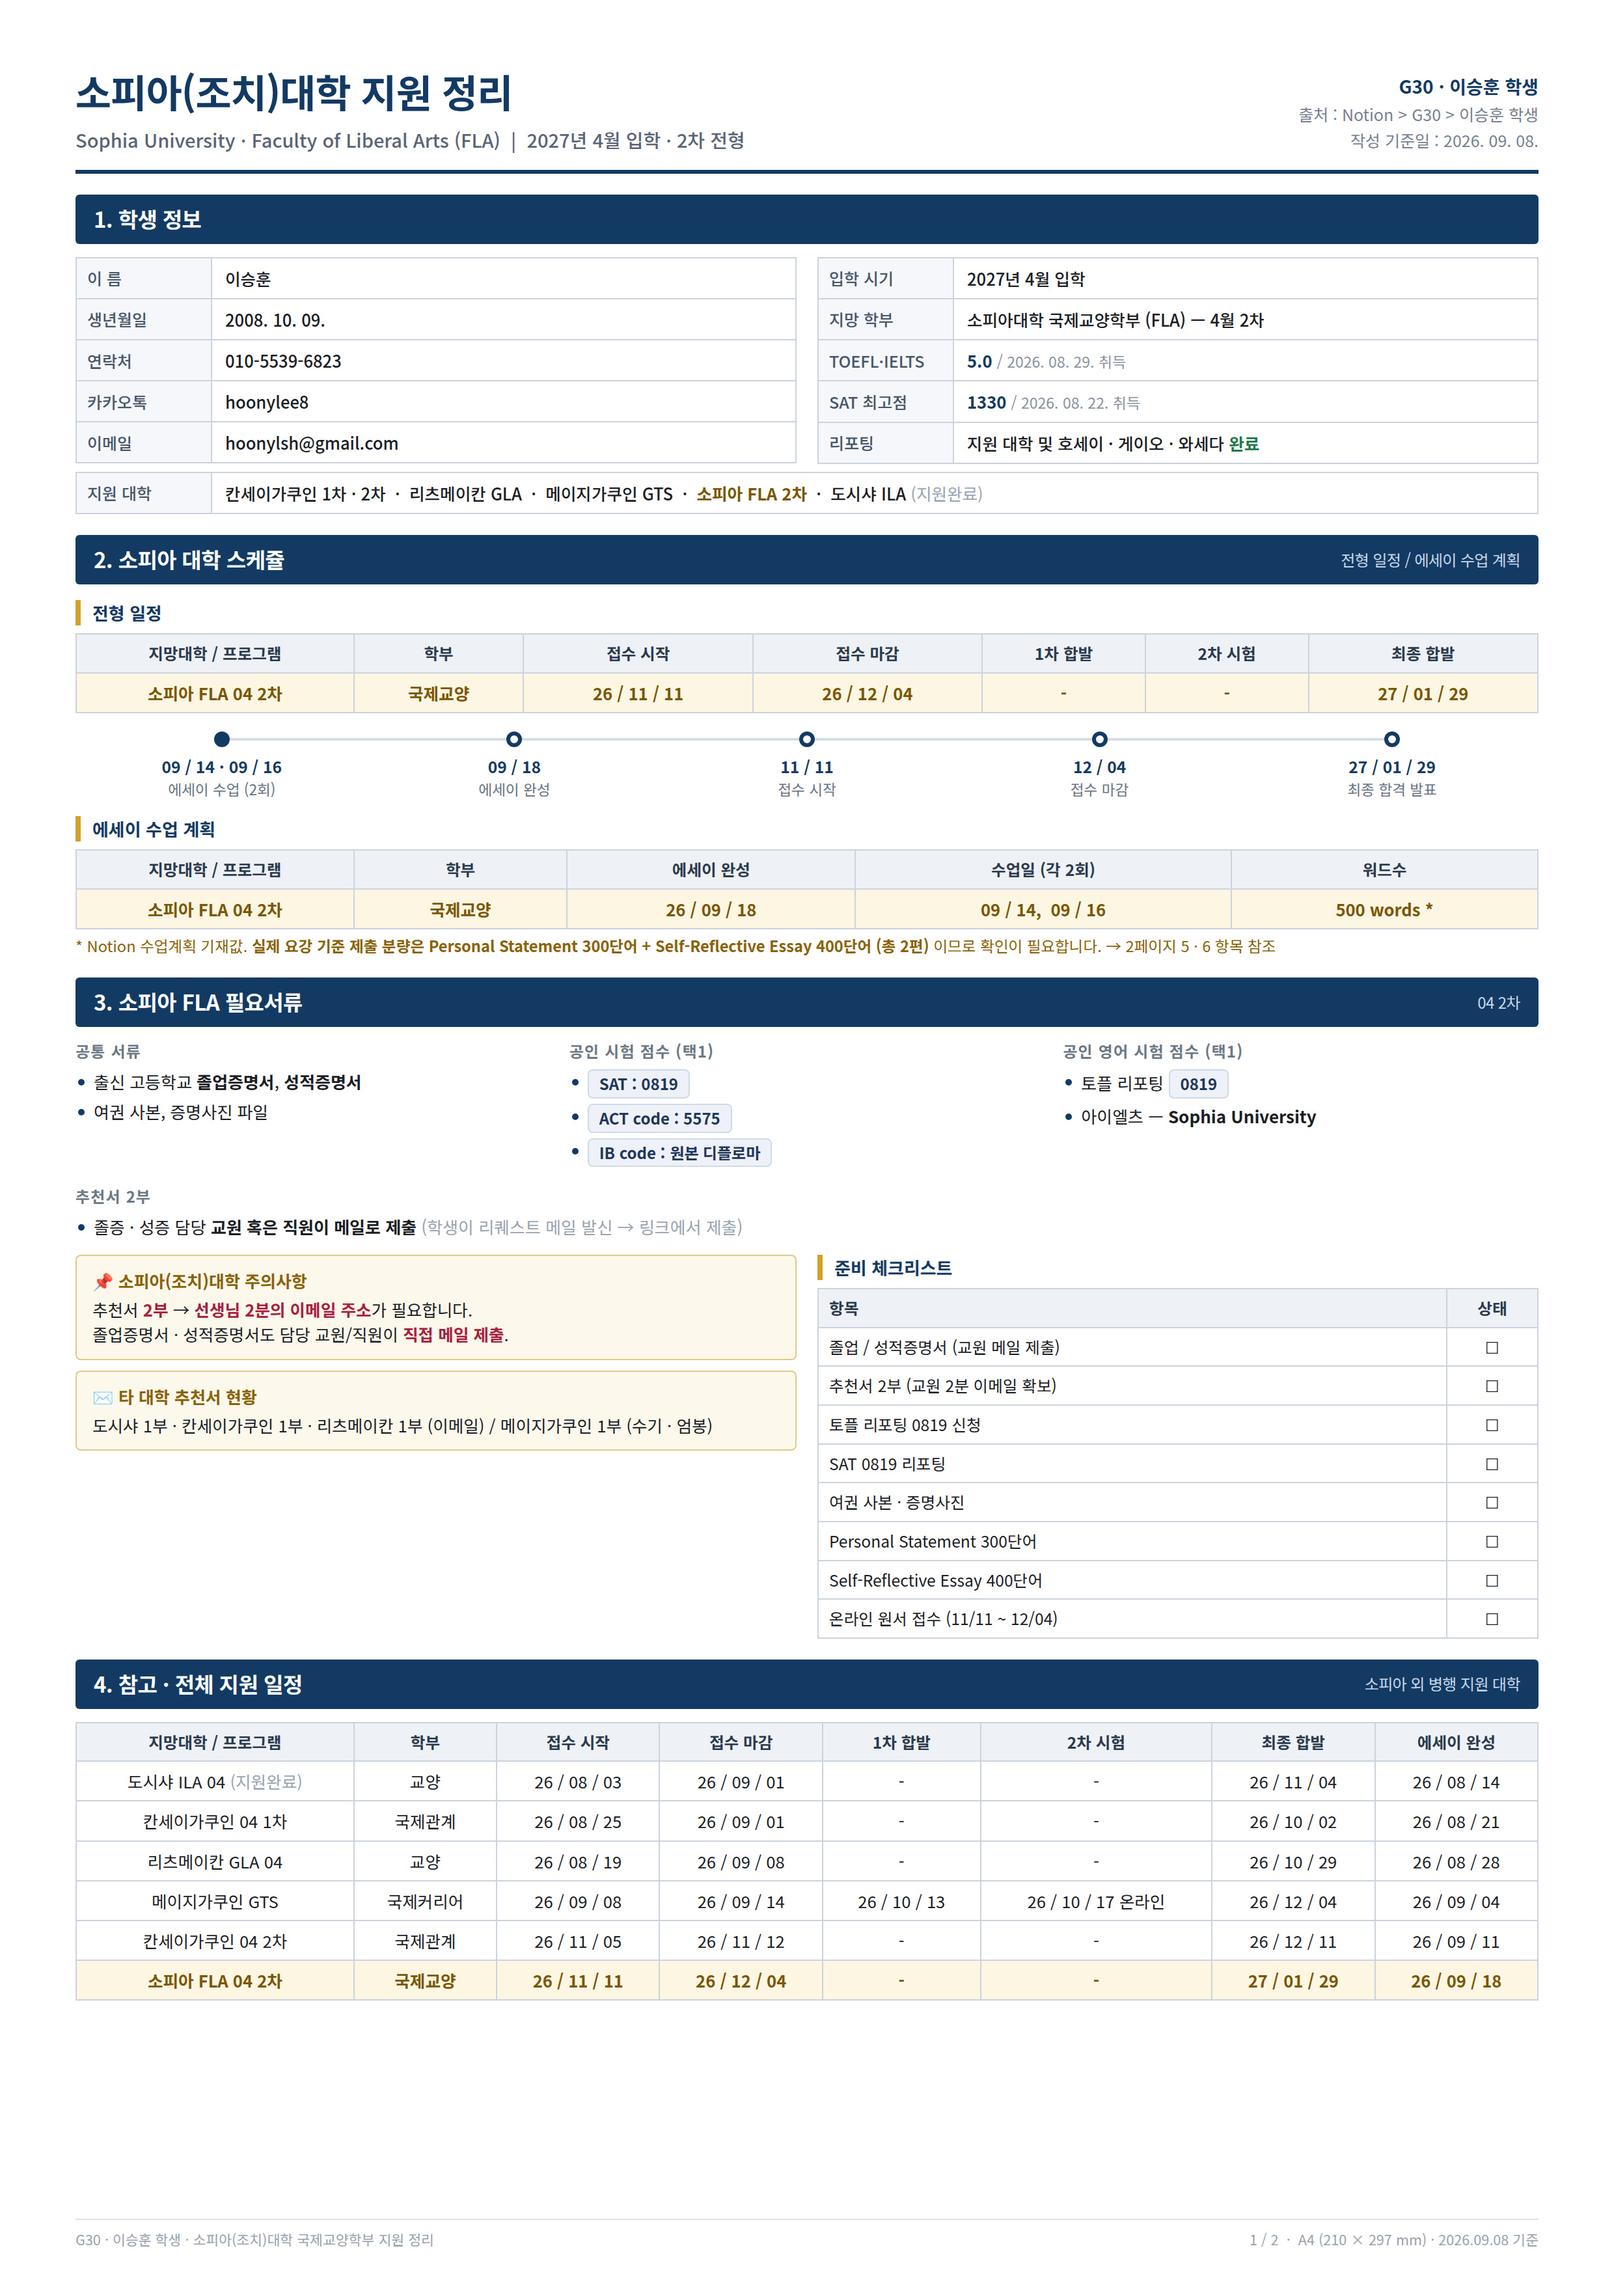
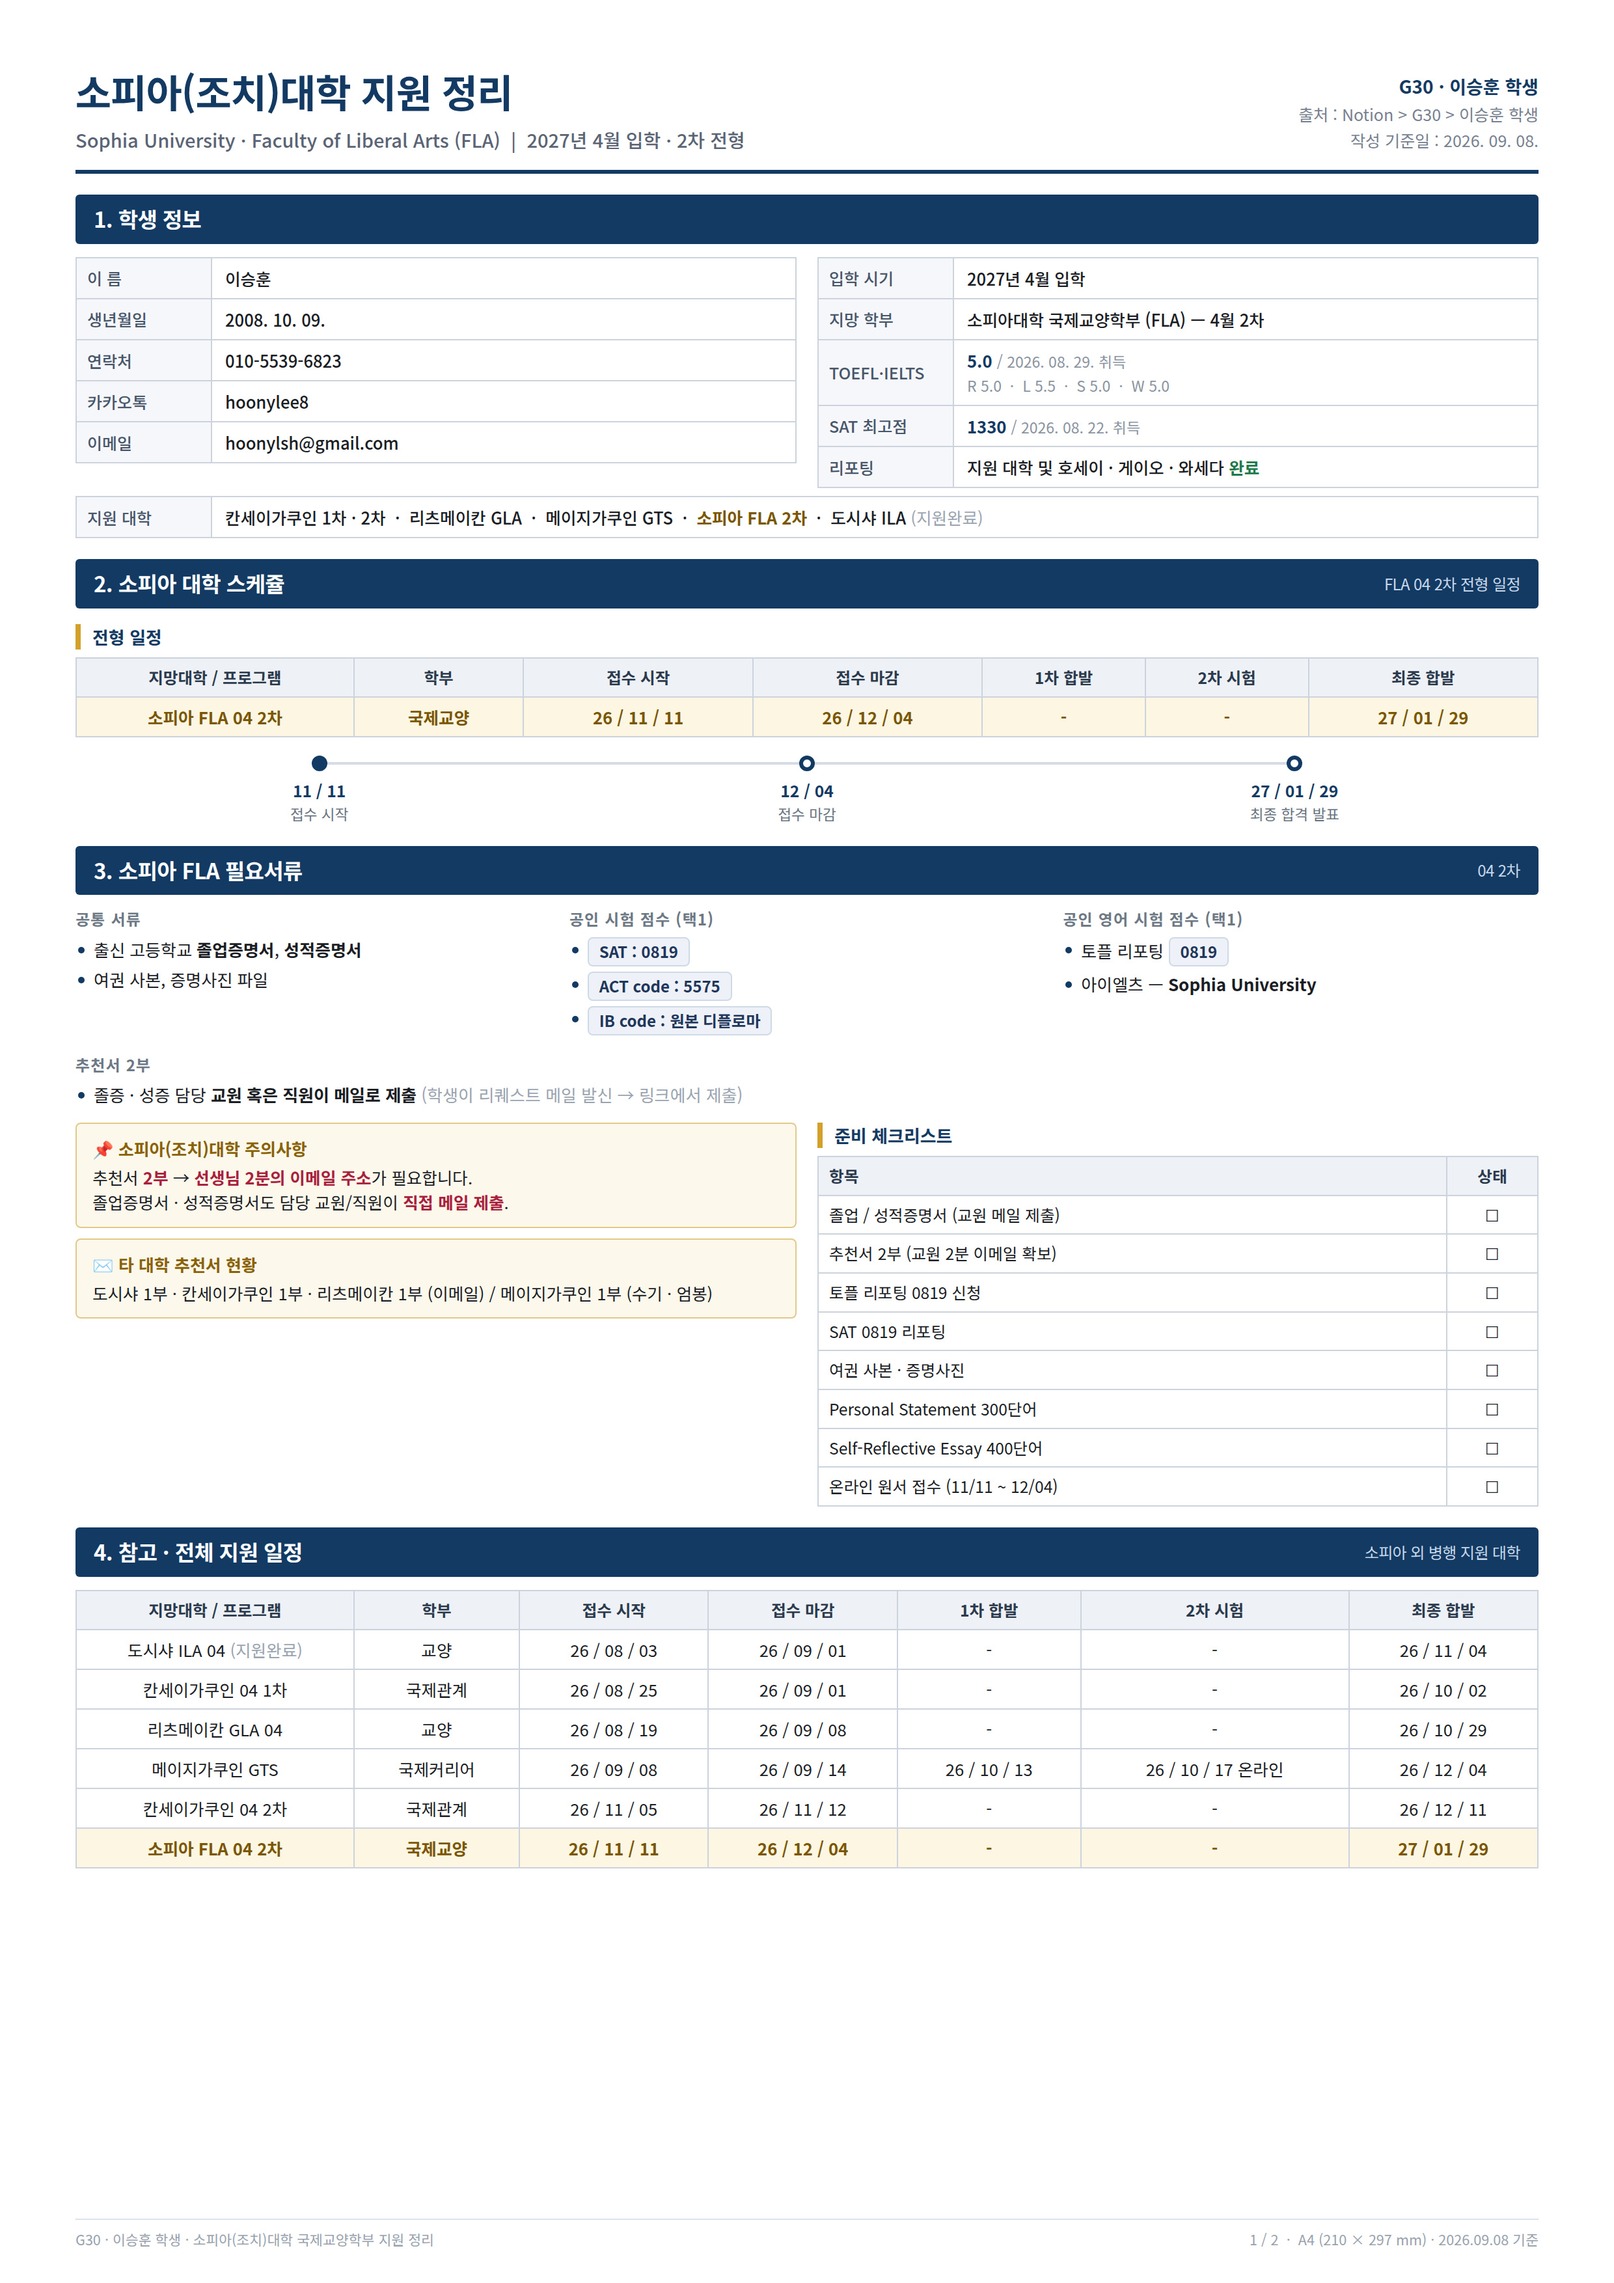
Add TOEFL section scores and drop the essay class plan
- 학생 정보에 토플 세부 점수 (R 5.0 · L 5.5 · S 5.0 · W 5.0) 추가
- 에세이 수업 계획 표와 워드수 각주 삭제, 타임라인은 전형 일정만 표시
- 전체 지원 일정표의 '에세이 완성' 열 삭제
- 2페이지 헤더를 접수 기간 / 최종 합발 기준으로 변경

Claude-Session: https://claude.ai/code/session_019NRQ6gg8wpAkjDxBCSfVu6

Changed region(s): [[0.031, 0.1554, 0.9625, 0.9011], [0.9004, 0.4971, 0.9315, 0.5282]]

diff --git a/g30/이승훈/sophia_a4.html b/g30/이승훈/sophia_a4.html
@@ -108,7 +108,8 @@
     <table class="info">
       <tr><th>입학 시기</th><td>2027년 4월 입학</td></tr>
       <tr><th>지망 학부</th><td>소피아대학 국제교양학부 (FLA) — 4월 2차</td></tr>
-      <tr><th>TOEFL·IELTS</th><td><b style="color:#123a63;">5.0</b> <span class="date">/ 2026. 08. 29. 취득</span></td></tr>
+      <tr><th>TOEFL·IELTS</th><td><b style="color:#123a63;">5.0</b> <span class="date">/ 2026. 08. 29. 취득</span><br>
+          <span class="date">R 5.0 &nbsp;·&nbsp; L 5.5 &nbsp;·&nbsp; S 5.0 &nbsp;·&nbsp; W 5.0</span></td></tr>
       <tr><th>SAT 최고점</th><td><b style="color:#123a63;">1330</b> <span class="date">/ 2026. 08. 22. 취득</span></td></tr>
       <tr><th>리포팅</th><td>지원 대학 및 호세이 · 게이오 · 와세다 <b style="color:#1c7a4a;">완료</b></td></tr>
     </table>
@@ -120,7 +121,7 @@
           <b style="color:#7a5600;">소피아 FLA 2차</b> &nbsp;·&nbsp; 도시샤 ILA <span class="muted">(지원완료)</span></td></tr>
 </table>
 
-<h2>2. 소피아 대학 스케쥴 <span class="note">전형 일정 / 에세이 수업 계획</span></h2>
+<h2>2. 소피아 대학 스케쥴 <span class="note">FLA 04 2차 전형 일정</span></h2>
 <h3>전형 일정</h3>
 <table>
   <tr><th style="width:19%">지망대학 / 프로그램</th><th>학부</th><th>접수 시작</th><th>접수 마감</th>
@@ -129,19 +130,9 @@
       <td>-</td><td>-</td><td>27 / 01 / 29</td></tr>
 </table>
 <div class="timeline">
-  <div class="tl done"><div class="dot"></div><div class="d">09 / 14 · 09 / 16</div><div class="n">에세이 수업 (2회)</div></div>
-  <div class="tl"><div class="dot"></div><div class="d">09 / 18</div><div class="n">에세이 완성</div></div>
-  <div class="tl"><div class="dot"></div><div class="d">11 / 11</div><div class="n">접수 시작</div></div>
+  <div class="tl done"><div class="dot"></div><div class="d">11 / 11</div><div class="n">접수 시작</div></div>
   <div class="tl"><div class="dot"></div><div class="d">12 / 04</div><div class="n">접수 마감</div></div>
   <div class="tl"><div class="dot"></div><div class="d">27 / 01 / 29</div><div class="n">최종 합격 발표</div></div>
-</div>
-<h3>에세이 수업 계획</h3>
-<table>
-  <tr><th style="width:19%">지망대학 / 프로그램</th><th>학부</th><th>에세이 완성</th><th>수업일 (각 2회)</th><th>워드수</th></tr>
-  <tr class="hl"><td>소피아 FLA 04 2차</td><td>국제교양</td><td>26 / 09 / 18</td><td>09 / 14, &nbsp;09 / 16</td><td>500 words *</td></tr>
-</table>
-<div style="font-size:11.8px;color:#8a6206;margin-top:4px;">
-  * Notion 수업계획 기재값. <b>실제 요강 기준 제출 분량은 Personal Statement 300단어 + Self-Reflective Essay 400단어 (총 2편)</b> 이므로 확인이 필요합니다. → 2페이지 5 · 6 항목 참조
 </div>
 
 <h2>3. 소피아 FLA 필요서류 <span class="note">04 2차</span></h2>
@@ -206,13 +197,13 @@
 <h2>4. 참고 &middot; 전체 지원 일정 <span class="note">소피아 외 병행 지원 대학</span></h2>
 <table>
   <tr><th style="width:19%">지망대학 / 프로그램</th><th>학부</th><th>접수 시작</th><th>접수 마감</th>
-      <th>1차 합발</th><th>2차 시험</th><th>최종 합발</th><th>에세이 완성</th></tr>
-  <tr><td>도시샤 ILA 04 <span class="muted">(지원완료)</span></td><td>교양</td><td>26 / 08 / 03</td><td>26 / 09 / 01</td><td>-</td><td>-</td><td>26 / 11 / 04</td><td>26 / 08 / 14</td></tr>
-  <tr><td>칸세이가쿠인 04 1차</td><td>국제관계</td><td>26 / 08 / 25</td><td>26 / 09 / 01</td><td>-</td><td>-</td><td>26 / 10 / 02</td><td>26 / 08 / 21</td></tr>
-  <tr><td>리츠메이칸 GLA 04</td><td>교양</td><td>26 / 08 / 19</td><td>26 / 09 / 08</td><td>-</td><td>-</td><td>26 / 10 / 29</td><td>26 / 08 / 28</td></tr>
-  <tr><td>메이지가쿠인 GTS</td><td>국제커리어</td><td>26 / 09 / 08</td><td>26 / 09 / 14</td><td>26 / 10 / 13</td><td>26 / 10 / 17 온라인</td><td>26 / 12 / 04</td><td>26 / 09 / 04</td></tr>
-  <tr><td>칸세이가쿠인 04 2차</td><td>국제관계</td><td>26 / 11 / 05</td><td>26 / 11 / 12</td><td>-</td><td>-</td><td>26 / 12 / 11</td><td>26 / 09 / 11</td></tr>
-  <tr class="hl"><td>소피아 FLA 04 2차</td><td>국제교양</td><td>26 / 11 / 11</td><td>26 / 12 / 04</td><td>-</td><td>-</td><td>27 / 01 / 29</td><td>26 / 09 / 18</td></tr>
+      <th>1차 합발</th><th>2차 시험</th><th>최종 합발</th></tr>
+  <tr><td>도시샤 ILA 04 <span class="muted">(지원완료)</span></td><td>교양</td><td>26 / 08 / 03</td><td>26 / 09 / 01</td><td>-</td><td>-</td><td>26 / 11 / 04</td></tr>
+  <tr><td>칸세이가쿠인 04 1차</td><td>국제관계</td><td>26 / 08 / 25</td><td>26 / 09 / 01</td><td>-</td><td>-</td><td>26 / 10 / 02</td></tr>
+  <tr><td>리츠메이칸 GLA 04</td><td>교양</td><td>26 / 08 / 19</td><td>26 / 09 / 08</td><td>-</td><td>-</td><td>26 / 10 / 29</td></tr>
+  <tr><td>메이지가쿠인 GTS</td><td>국제커리어</td><td>26 / 09 / 08</td><td>26 / 09 / 14</td><td>26 / 10 / 13</td><td>26 / 10 / 17 온라인</td><td>26 / 12 / 04</td></tr>
+  <tr><td>칸세이가쿠인 04 2차</td><td>국제관계</td><td>26 / 11 / 05</td><td>26 / 11 / 12</td><td>-</td><td>-</td><td>26 / 12 / 11</td></tr>
+  <tr class="hl"><td>소피아 FLA 04 2차</td><td>국제교양</td><td>26 / 11 / 11</td><td>26 / 12 / 04</td><td>-</td><td>-</td><td>27 / 01 / 29</td></tr>
 </table>
 
 <footer>
@@ -230,8 +221,8 @@
   </div>
   <div class="meta">
     <b>G30 · 이승훈 학생</b><br>
-    에세이 수업 : 09 / 14, 09 / 16<br>
-    에세이 완성 : 2026. 09. 18.
+    접수 : 26 / 11 / 11 ~ 12 / 04<br>
+    최종 합발 : 2027. 01. 29.
   </div>
 </header>
 

diff --git a/g30/이승훈/README.md b/g30/이승훈/README.md
@@ -5,7 +5,7 @@
 | 파일 | 내용 |
 | --- | --- |
 | `sophia_a4.html` | A4 2페이지 레이아웃 원본 (페이지당 1240 × 1754 CSS px = A4 @150dpi) |
-| `이승훈_소피아대학_A4_1p_학생정보-일정.jpg` | 1p — 학생 정보 · 소피아 스케쥴 · FLA 필요서류 · 전체 지원 일정 |
+| `이승훈_소피아대학_A4_1p_학생정보-일정.jpg` | 1p — 학생 정보 · 소피아 전형 일정 · FLA 필요서류 · 전체 지원 일정 |
 | `이승훈_소피아대학_A4_2p_에세이과제.jpg` | 2p — Personal Statement / Self-Reflective Essay 원문 · 진행 관리 |
 
 각 JPG는 2480 × 3508 px (A4 300dpi).
@@ -35,11 +35,12 @@ PY
 ## 데이터 출처
 
 - 학생 정보 : TIS G30 컨설팅 어드민 페이지 (생년월일 · 연락처 · 카카오톡 · 이메일 · 지원 대학 · 리포팅 현황)
-  - TOEFL·IELTS **5.0** (2026.08.29 취득), SAT **1330** (2026.08.22 취득) 은 별도 전달값으로 갱신
-- 전형 일정 / 에세이 수업 계획 / 타 대학 일정 : Notion `팀스페이스 홈 / G30 / 이승훈 학생`
+  - TOEFL·IELTS **5.0** (2026.08.29 취득 / R 5.0 · L 5.5 · S 5.0 · W 5.0), SAT **1330** (2026.08.22 취득) 은 별도 전달값
+- 전형 일정 / 타 대학 일정 : Notion `팀스페이스 홈 / G30 / 이승훈 학생`
 - 소피아 FLA 필요서류 및 에세이 문항 : 소피아 FLA 필요서류(04 2차) 요강
 
-## 확인 필요
+## 참고
 
-Notion 에세이 수업 계획에는 소피아 워드수가 **500 words** 로 되어 있으나, 요강 기준 실제 제출물은
-**Personal Statement 최대 300단어 + Self-Reflective Essay 최대 400단어 (총 2편)** 입니다. 수업 계획 조정이 필요합니다.
+에세이 수업 계획(수업일 · 에세이 완성일 · 워드수)은 요청에 따라 시트에서 제외했습니다.
+전체 지원 일정표의 `에세이 완성` 열도 같은 이유로 함께 삭제했습니다.
+소피아 제출물은 **Personal Statement 최대 300단어 + Self-Reflective Essay 최대 400단어 (총 2편)** 입니다.
